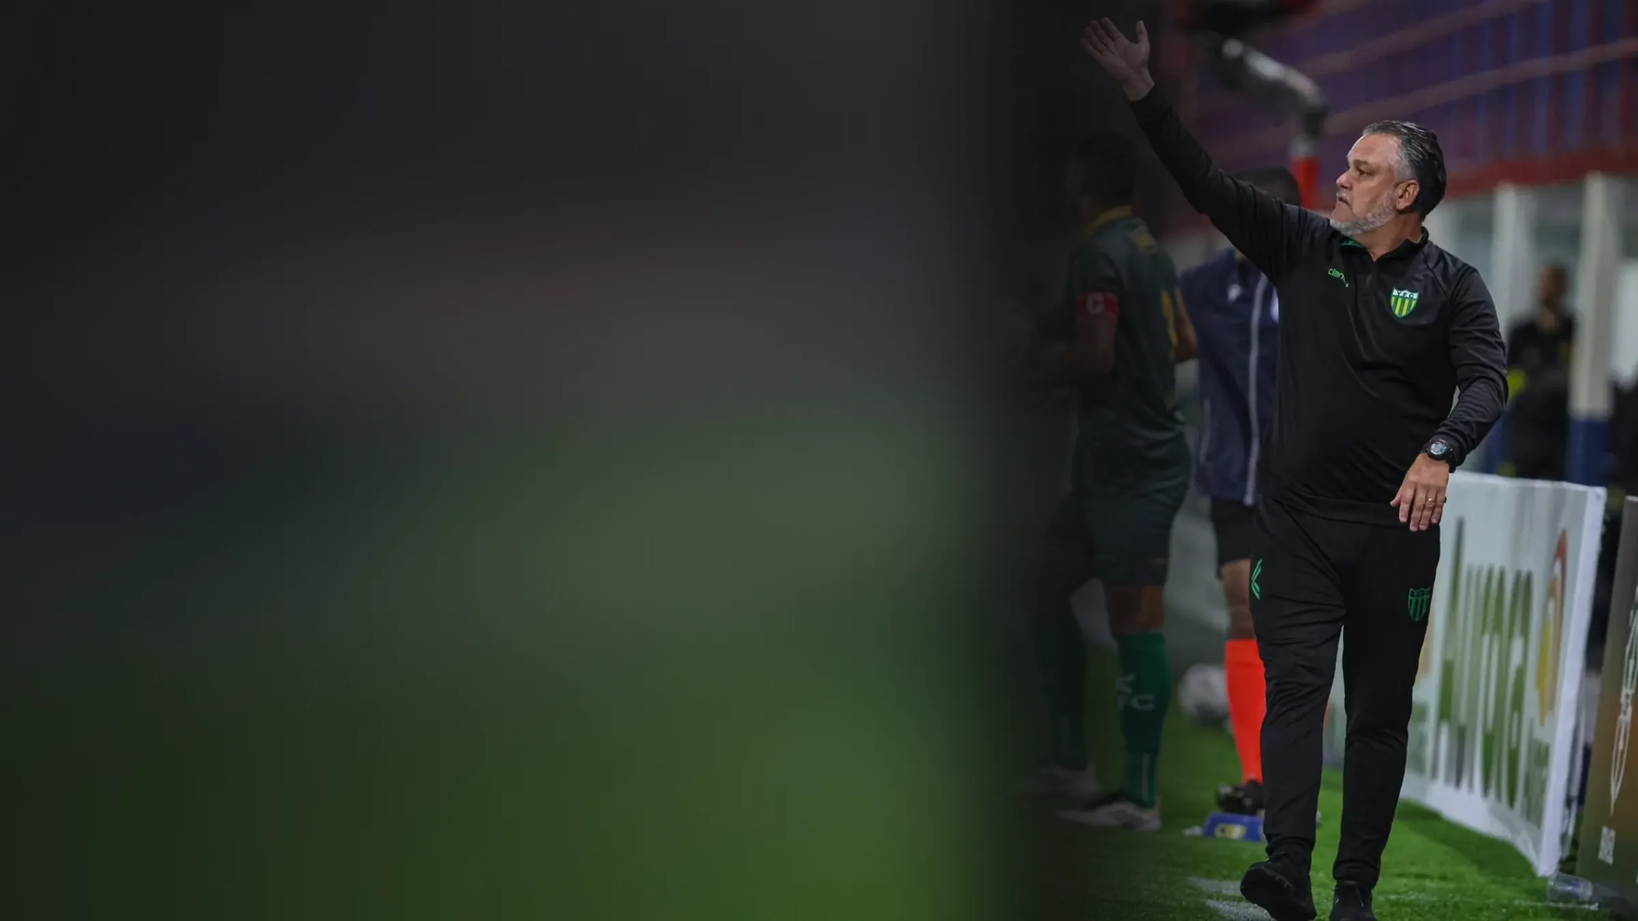
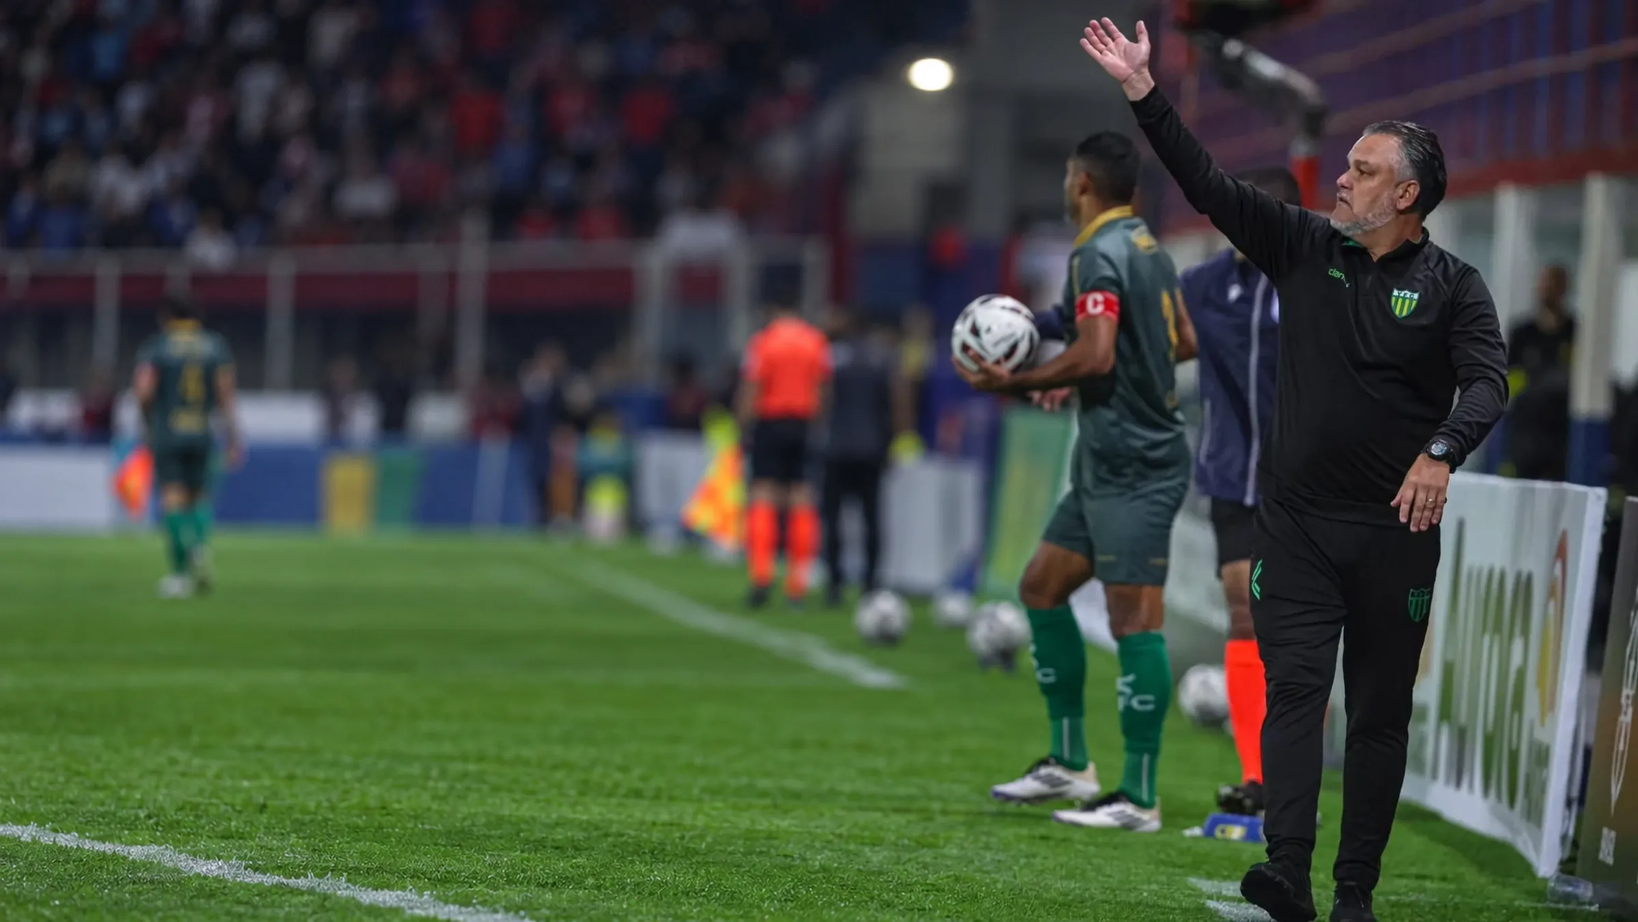
Hero com laterais completadas por IA e sem a seção Modelo de jogo
As fotos do hero e do contato ganharam laterais geradas no ChatGPT, com a
foto original realinhada por cima (tools/merge_outpaint.py) para manter a
pessoa intacta. Remove a seção Modelo de jogo, o link do menu e o JS da
prancheta; o botão secundário do hero passa a levar às fotos.

diff --git a/index.html b/index.html
@@ -4,7 +4,7 @@
 <meta charset="utf-8">
 <meta name="viewport" content="width=device-width, initial-scale=1">
 <title>Gabardo Júnior | Treinador do Agro Esporte Clube</title>
-<meta name="description" content="Site oficial de Gabardo Júnior, treinador do Agro Esporte Clube para a temporada 2027. Conheça sua trajetória, modelo de jogo, experiências e notícias.">
+<meta name="description" content="Site oficial de Gabardo Júnior, treinador do Agro Esporte Clube para a temporada 2027. Conheça sua trajetória, experiências, fotos e notícias.">
 <link rel="canonical" href="https://www.gabardojr.com.br">
 <meta property="og:title" content="Gabardo Júnior | Treinador do Agro Esporte Clube">
 <meta property="og:description" content="Gabardo Júnior é o treinador do Agro Esporte Clube para a temporada 2027.">
@@ -91,10 +91,10 @@ section{position:relative;scroll-margin-top:72px}
 .hero-sticky{position:relative;height:100svh;min-height:640px;max-height:1100px;overflow:hidden}
 .hero-bg{position:absolute;inset:0;opacity:0;transition:opacity 1.4s var(--ease)}
 .hero-bg.is-active{opacity:1}
-.hero-bg img{width:100%;height:100%;object-fit:cover;object-position:right 22%;translate:0 calc(var(--p,0) * 18%)}
+.hero-bg img{width:100%;height:100%;object-fit:cover;object-position:right 8%;translate:0 calc(var(--p,0) * 18%)}
 .hero-bg.is-active img{animation:kenburns 9s linear both}
 @keyframes kenburns{from{scale:1.06}to{scale:1}}
-.hero-shade{position:absolute;inset:0;background:linear-gradient(90deg,rgba(14,14,15,.9) 0%,rgba(14,14,15,.45) 42%,transparent 70%),linear-gradient(0deg,var(--ink) 0%,transparent 35%);}
+.hero-shade{position:absolute;inset:0;background:linear-gradient(90deg,rgba(14,14,15,.82) 0%,rgba(14,14,15,.4) 36%,transparent 58%),linear-gradient(0deg,var(--ink) 0%,transparent 35%);}
 @keyframes cue{to{top:100%}}
 .beam{position:absolute;top:-20%;width:38vw;height:140%;background:linear-gradient(180deg,rgba(255,255,255,.10),transparent 70%);filter:blur(30px);transform-origin:top center;mix-blend-mode:screen;pointer-events:none;opacity:.7}
 .beam.l{left:-6vw;rotate:-18deg;animation:sway 9s ease-in-out infinite alternate}
@@ -204,43 +204,6 @@ section{position:relative;scroll-margin-top:72px}
 .honor:hover b{color:#fff}
 .honor p{margin-top:18px;font-weight:600;font-size:17px;line-height:1.4}
 .honors-ball{position:absolute;right:-180px;top:-180px;width:560px;opacity:.09;pointer-events:none}
-
-/* modelo de jogo */
-.model{padding:clamp(90px,10vw,140px) 0;background:var(--ink)}
-.model-grid{display:grid;grid-template-columns:minmax(0,1.5fr) minmax(0,1fr);gap:clamp(28px,4vw,56px);align-items:stretch}
-.board{position:relative;background:#0f1d14;border:1px solid var(--line-dark);overflow:hidden}
-.board svg{display:block;width:100%;height:auto}
-.board .pitch-lines *{fill:none;stroke:rgba(255,255,255,.22);stroke-width:2}
-.board .stripe{fill:rgba(255,255,255,.025)}
-.board .player{transition:transform 1s var(--ease)}
-.board .player circle{fill:var(--red);stroke:#fff;stroke-width:2.5}
-.board .player.gk circle{fill:var(--gold)}
-.board .player text{fill:#fff;font:800 14px var(--display);text-anchor:middle;dominant-baseline:central}
-.board .layer{opacity:0;transition:opacity .5s}
-.board .layer.on{opacity:1}
-.board .arrow{fill:none;stroke:#fff;stroke-width:3;stroke-linecap:round;stroke-dasharray:var(--len);stroke-dashoffset:var(--len)}
-.board .arrow.dash{stroke-dasharray:8 8}
-.board .layer.on .arrow{animation:draw 1.2s var(--ease) forwards;animation-delay:var(--d,.3s)}
-.board .layer.on .arrow.dash{animation:fadein .6s forwards;animation-delay:var(--d,.3s);opacity:0}
-@keyframes draw{to{stroke-dashoffset:0}}
-@keyframes fadein{to{opacity:1}}
-.board .zone{fill:rgba(200,20,42,.18);stroke:var(--red);stroke-width:2;stroke-dasharray:6 6}
-.board .ring{fill:none;stroke:var(--gold);stroke-width:2.5;stroke-dasharray:4 6;transform-box:fill-box;transform-origin:center}
-.board .layer.on .ring{animation:spin 8s linear infinite}
-@keyframes spin{to{transform:rotate(360deg)}}
-.board .ball{fill:#fff}
-.board .lbl{fill:var(--gold);font:800 22px var(--display);letter-spacing:.06em}
-.board-photo{position:absolute;right:16px;bottom:16px;width:28%;aspect-ratio:1;border:3px solid #fff;box-shadow:0 20px 40px rgba(0,0,0,.5);overflow:hidden}
-.board-photo img{width:100%;height:100%;object-fit:cover;object-position:60% 25%}
-.phases{display:flex;flex-direction:column;border-top:1px solid var(--line-dark)}
-.phase{text-align:left;display:grid;grid-template-columns:44px 1fr;gap:0 14px;padding:20px 0;border-bottom:1px solid var(--line-dark);transition:.3s}
-.phase span{font:800 18px/1.3 var(--display);color:var(--muted)}
-.phase h3{font:800 26px/1.1 var(--display);text-transform:uppercase;color:rgba(255,255,255,.55);transition:color .3s}
-.phase p{grid-column:2;max-height:0;overflow:hidden;opacity:0;font-size:15px;line-height:1.6;color:var(--muted);transition:max-height .5s var(--ease),opacity .4s,margin .4s}
-.phase:hover h3{color:#fff}
-.phase[aria-selected=true] span{color:var(--red)}
-.phase[aria-selected=true] h3{color:#fff}
-.phase[aria-selected=true] p{max-height:140px;opacity:1;margin-top:8px}
 
 /* comissão + referências */
 .people{background:var(--paper);padding:clamp(90px,10vw,140px) 0}
@@ -506,7 +469,6 @@ footer .wordmark{color:#fff}
   .contact::before{background:linear-gradient(0deg,rgba(14,14,15,.98) 30%,rgba(14,14,15,.5) 65%,transparent)}
   .lightbox{padding:70px 12px}
   .lb-prev,.lb-next{top:auto;bottom:12px;translate:none}
-  .board-photo{display:none}
   .agro-art .crest{width:72px;height:72px}
   .facts{grid-template-columns:1fr}
   .facts div:nth-child(odd){padding-right:0}
@@ -524,7 +486,6 @@ footer .wordmark{color:#fff}
     <nav class="nav" aria-label="Navegação principal">
       <a href="#apresentacao" data-i18n="nav.about">Apresentação</a>
       <a href="#experiencia" data-i18n="nav.exp">Experiência</a>
-      <a href="#modelo" data-i18n="nav.model">Modelo de jogo</a>
       <a href="#fotos" data-i18n="nav.photos">Fotos</a>
       <a href="#videos" data-i18n="nav.videos">Vídeos</a>
       <a href="#imprensa" data-i18n="nav.press">Imprensa</a>
@@ -559,7 +520,7 @@ footer .wordmark{color:#fff}
       <p class="hero-role" data-i18n="hero.sub">Treinador de futebol · Licença A CBF/CONMEBOL · 15 anos formando atletas no Grêmio.</p>
       <div class="hero-ctas">
         <a class="btn btn-red" href="#apresentacao"><span data-i18n="hero.cta1">Conheça a trajetória</span><svg viewBox="0 0 24 24" fill="none" stroke="currentColor" stroke-width="2"><path d="M5 12h13M13 6l6 6-6 6"/></svg></a>
-        <a class="btn btn-ghost" href="#modelo" data-i18n="hero.cta2">Modelo de jogo</a>
+        <a class="btn btn-ghost" href="#fotos" data-i18n="hero.cta2">Ver fotos</a>
       </div>
     </div>
     <div class="hero-dots" role="tablist" aria-label="Selecionar destaque">
@@ -688,73 +649,6 @@ footer .wordmark{color:#fff}
       <article class="honor rv" style="--rd:.06s"><b>06</b><p data-i18n="h6">Vice-campeão da Copa do Brasil Sub-17</p></article>
       <article class="honor rv" style="--rd:.12s"><b>07</b><p data-i18n="h7">Nove Campeonatos Estaduais Gaúchos de base</p></article>
       <article class="honor rv" style="--rd:.18s"><b>08</b><p data-i18n="h8">24 títulos nas categorias de base</p></article>
-    </div>
-  </div>
-</section>
-
-<!-- MODELO DE JOGO -->
-<section class="model" id="modelo">
-  <div class="stripes"></div><div class="glow" style="right:-25vw;top:-10%"></div>
-  <div class="wrap">
-    <div class="sec-head">
-      <div><span class="kicker rv" data-i18n="mod.k">Identidade de trabalho</span><h2 class="h2 rv" data-i18n="nav.model">Modelo de jogo</h2></div>
-      <p class="lead rv" data-i18n="mod.p">Uma equipe sólida em todos os momentos, com clareza de ideias, metodologia diária, intensidade e construção de resultados. O modelo respeita a cultura do clube e integra time, comissão técnica e atletas.</p>
-    </div>
-    <div class="model-grid">
-      <div class="board rv" aria-label="Prancheta tática ilustrando o princípio selecionado">
-        <svg viewBox="0 0 1050 680" role="img" aria-labelledby="board-title">
-          <title id="board-title">Prancheta tática</title>
-          <defs>
-            <marker id="ah" viewBox="0 0 10 10" refX="7" refY="5" markerWidth="5" markerHeight="5" orient="auto-start-reverse"><path d="M0 0L10 5L0 10z" fill="#fff"/></marker>
-            <marker id="ahg" viewBox="0 0 10 10" refX="7" refY="5" markerWidth="5" markerHeight="5" orient="auto-start-reverse"><path d="M0 0L10 5L0 10z" fill="#c9a54a"/></marker>
-          </defs>
-          <g id="stripes"></g>
-          <g class="pitch-lines">
-            <rect x="25" y="25" width="1000" height="630"/><line x1="525" y1="25" x2="525" y2="655"/><circle cx="525" cy="340" r="88"/>
-            <rect x="25" y="170" width="160" height="340"/><rect x="25" y="255" width="55" height="170"/>
-            <rect x="865" y="170" width="160" height="340"/><rect x="970" y="255" width="55" height="170"/>
-            <path d="M185 282a88 88 0 0 1 0 116M865 282a88 88 0 0 0 0 116"/>
-          </g>
-          <!-- camadas por princípio -->
-          <g class="layer" data-layer="0">
-            <path class="arrow" style="--d:.3s" marker-end="url(#ah)" d="M210 270 Q300 230 390 330"/>
-            <path class="arrow" style="--d:.8s" marker-end="url(#ah)" d="M410 340 Q520 300 610 220"/>
-            <path class="arrow" style="--d:1.3s" marker-end="url(#ah)" d="M640 210 Q760 180 820 300"/>
-            <path class="arrow dash" style="--d:1.4s" marker-end="url(#ah)" d="M700 560 Q800 520 860 420"/>
-            <path class="arrow dash" style="--d:1.6s" marker-end="url(#ah)" d="M740 330 L900 330"/>
-          </g>
-          <g class="layer" data-layer="1">
-            <rect class="zone" x="300" y="150" width="270" height="380" rx="6"/>
-            <path class="arrow dash" style="--d:.4s" marker-end="url(#ahg)" stroke="#c9a54a" d="M610 340 L520 340"/>
-            <text class="lbl" x="310" y="140">BLOCO COMPACTO</text>
-          </g>
-          <g class="layer" data-layer="2">
-            <circle class="ring" cx="600" cy="300" r="90"/>
-            <circle class="ball" cx="600" cy="300" r="9"/>
-            <path class="arrow" style="--d:.3s" marker-end="url(#ah)" d="M520 230 L575 280"/>
-            <path class="arrow" style="--d:.4s" marker-end="url(#ah)" d="M690 220 L625 280"/>
-            <path class="arrow" style="--d:.5s" marker-end="url(#ah)" d="M520 390 L578 322"/>
-            <path class="arrow" style="--d:1.2s" marker-end="url(#ah)" d="M640 300 Q780 260 900 330"/>
-            <text class="lbl" x="545" y="190">5–7 s</text>
-          </g>
-          <g class="layer" data-layer="3">
-            <circle class="ball" cx="1012" cy="38" r="9"/>
-            <path class="arrow" style="--d:.3s;stroke:#c9a54a" marker-end="url(#ahg)" d="M1000 45 Q880 160 935 320"/>
-            <path class="arrow dash" style="--d:.9s" marker-end="url(#ah)" d="M820 420 L925 350"/>
-            <path class="arrow dash" style="--d:1s" marker-end="url(#ah)" d="M800 250 L905 300"/>
-          </g>
-          <g class="layer" data-layer="4" id="links"></g>
-          <g id="players"></g>
-        </svg>
-        <div class="board-photo"><img src="assets/novas/gabardo-modelo-jogo.webp" alt="Gabardo Júnior orientando sua equipe durante uma partida" loading="lazy"></div>
-      </div>
-      <div class="phases rv" role="tablist" aria-label="Princípios do modelo de jogo">
-        <button class="phase" role="tab" aria-selected="true"><span>01</span><h3 data-i18n="m1.t">Organização ofensiva</h3><p data-i18n="m1.p">Circulação e posse para ultrapassar linhas, chegar rapidamente ao campo de ataque e criar oportunidades.</p></button>
-        <button class="phase" role="tab" aria-selected="false"><span>02</span><h3 data-i18n="m2.t">Organização defensiva</h3><p data-i18n="m2.p">Marcação zonal e mista, compactação e controle dos espaços para neutralizar o adversário.</p></button>
-        <button class="phase" role="tab" aria-selected="false"><span>03</span><h3 data-i18n="m3.t">Transições</h3><p data-i18n="m3.p">Recuperação da posse em 5 a 7 segundos; contra-ataques verticais e agressivos ou reorganização rápida.</p></button>
-        <button class="phase" role="tab" aria-selected="false"><span>04</span><h3 data-i18n="m4.t">Bola parada</h3><p data-i18n="m4.p">Variações ensaiadas, marcação individual e por zona e ações ofensivas para gerar oportunidades.</p></button>
-        <button class="phase" role="tab" aria-selected="false"><span>05</span><h3 data-i18n="m5.t">Gestão</h3><p data-i18n="m5.p">Relações humanas, avaliações, controle do processo e soluções alinhadas à busca constante por resultados.</p></button>
-      </div>
     </div>
   </div>
 </section>
@@ -1019,52 +913,6 @@ footer .wordmark{color:#fff}
   addEventListener('load', sizePin);
   sizePin();
 
-  /* prancheta tática */
-  const NS = 'http://www.w3.org/2000/svg';
-  const stripes = $('#stripes');
-  for (let i = 0; i < 10; i += 2) {
-    const r = document.createElementNS(NS, 'rect');
-    Object.entries({ class: 'stripe', x: 25 + i * 100, y: 25, width: 100, height: 630 }).forEach(([k, v]) => r.setAttribute(k, v));
-    stripes.append(r);
-  }
-  // posições por princípio: [x,y] para 11 jogadores (GK, 4 DEF, 3 MEI, 3 ATA)
-  const F = [
-    [[70,340],[260,110],[210,270],[210,410],[260,570],[400,330],[610,210],[600,470],[840,140],[780,330],[720,560]],
-    [[70,340],[330,170],[320,280],[320,400],[330,510],[450,230],[440,340],[450,450],[560,200],[600,340],[560,480]],
-    [[70,340],[300,140],[280,280],[280,420],[300,560],[520,230],[520,390],[690,220],[800,140],[640,300],[780,520]],
-    [[70,340],[400,130],[330,300],[330,420],[400,560],[640,500],[800,250],[820,420],[930,250],[925,350],[900,450]],
-    [[70,340],[260,140],[230,280],[230,420],[260,560],[430,220],[400,340],[430,460],[680,160],[720,340],[680,520]],
-  ];
-  const playersG = $('#players'), players = F[0].map((_, i) => {
-    const g = document.createElementNS(NS, 'g'); g.setAttribute('class', 'player' + (i ? '' : ' gk'));
-    const c = document.createElementNS(NS, 'circle'); c.setAttribute('r', 19);
-    const t = document.createElementNS(NS, 'text'); t.textContent = [1,2,3,4,6,5,8,10,7,9,11][i];
-    g.append(c, t); playersG.append(g); return g;
-  });
-  // rede de conexões (Gestão)
-  const links = $('#links'), P = F[4];
-  [[0,2],[0,3],[1,2],[2,3],[3,4],[1,5],[2,6],[3,6],[4,7],[5,6],[6,7],[5,8],[6,9],[7,10],[8,9],[9,10],[1,8],[4,10]].forEach(([a,b], k) => {
-    const l = document.createElementNS(NS, 'path');
-    l.setAttribute('class', 'arrow'); l.setAttribute('d', `M${P[a]} L${P[b]}`);
-    l.style.cssText = `--d:${(.2 + k * .05).toFixed(2)}s;stroke:#c9a54a;stroke-width:2;opacity:.8`;
-    links.append(l);
-  });
-  $$('.board .arrow').forEach(p => p.style.setProperty('--len', Math.ceil(p.getTotalLength())));
-  const layers = $$('.board .layer'), tabs = $$('.phase');
-  let phaseTimer, phase = 0, userPicked = false;
-  const setPhase = i => {
-    phase = i;
-    tabs.forEach((t, k) => t.setAttribute('aria-selected', k === i));
-    layers.forEach(l => l.classList.toggle('on', +l.dataset.layer === i));
-    players.forEach((g, k) => g.style.transform = `translate(${F[i][k][0]}px,${F[i][k][1]}px)`);
-  };
-  tabs.forEach((t, i) => t.addEventListener('click', () => { userPicked = true; clearInterval(phaseTimer); setPhase(i); }));
-  players.forEach((g, k) => g.style.transform = `translate(${F[0][k][0]}px,${F[0][k][1]}px)`);
-  new IntersectionObserver(([e], o) => {
-    if (!e.isIntersecting) return; o.disconnect(); setPhase(0);
-    if (!reduce) phaseTimer = setInterval(() => { if (!userPicked) setPhase((phase + 1) % 5); }, 6000);
-  }, { threshold: .4 }).observe($('.board'));
-
   /* trilho de atletas */
   const rail = $('#rail');
   $$('[data-rail]').forEach(b => b.addEventListener('click', () => rail.scrollBy({ left: +b.dataset.rail * rail.clientWidth * .8, behavior: 'smooth' })));
@@ -1109,7 +957,7 @@ footer .wordmark{color:#fff}
   const T = {
     en: {
       'nav.about':'About','nav.exp':'Experience','nav.model':'Game model','nav.photos':'Photos','nav.videos':'Videos','nav.press':'Press','nav.contact':'Contact',
-      'hero.season':'2027 Season','hero.intro1':'Football coach','hero.scroll':'Scroll','hero.sub':'Football coach · CBF/CONMEBOL A Licence · 15 years developing players at Grêmio.','hero.role':'Football<br><span>coach</span>','hero.t1':'Football','hero.t2':'coach','hero.cta1':'Discover his career','hero.cta2':'Game model','hero.s1':'On the touchline','hero.s2':'Leadership','hero.s3':'Agro 2027',
+      'hero.season':'2027 Season','hero.intro1':'Football coach','hero.scroll':'Scroll','hero.sub':'Football coach · CBF/CONMEBOL A Licence · 15 years developing players at Grêmio.','hero.role':'Football<br><span>coach</span>','hero.t1':'Football','hero.t2':'coach','hero.cta1':'Discover his career','hero.cta2':'See photos','hero.s1':'On the touchline','hero.s2':'Leadership','hero.s3':'Agro 2027',
       'st.years':'years','st.1':'Developing players at Grêmio','st.2':'CBF / CONMEBOL licence','st.3':'Head coach since','st.4':'Youth-level titles',
       'about.cap':'Coaching from the touchline','about.badge':'Licence','about.k':'Professional coach',
       'about.p1':'Luiz Gabardo Júnior is a professional football coach with a degree in Physical Education and a CBF/CONMEBOL A Licence. Born in Porto Alegre, he has built a career combining player development, team leadership and professional football experience.',
@@ -1122,8 +970,6 @@ footer .wordmark{color:#fff}
       'c.agro':'Goiás State Championship and Brazilian Série D','c.serieC':'Brazilian Championship — Série C','c.serieD':'Brazilian Championship — Série D','c.pro':'Professional football','c.ba':'Bahia State Championship','c.rs':'Rio Grande do Sul State Championship','c.gremio':'Youth academy — U-12 to U-20',
       'hon.k':'Career results','hon.t':'Achievements','hon.p':'Results in professional football and a long list of titles in player development.',
       'h1':'Promotion to the Goiás State Championship Série A','h2':'Best coach of the Mato Grosso State Championship','h3':'Série D play-off qualification in 2021 and 2023','h4':'2024 Bahia State Championship semi-finalist','h5':'Brazilian U-15 champion with Grêmio','h6':'Runner-up in the U-17 Copa do Brasil','h7':'Nine Rio Grande do Sul youth state titles','h8':'24 youth-level titles',
-      'mod.k':'Working identity','mod.p':'A solid team in every phase of play, with clear ideas, daily methodology, intensity and the building of results. The model respects the club\'s culture and brings together team, staff and players.',
-      'm1.t':'Attacking organisation','m1.p':'Circulation and possession to break lines, reach the final third quickly and create chances.','m2.t':'Defensive organisation','m2.p':'Zonal and mixed marking, compactness and control of space to neutralise the opponent.','m3.t':'Transitions','m3.p':'Winning the ball back within 5 to 7 seconds; vertical, aggressive counter-attacks or quick reorganisation.','m4.t':'Set pieces','m4.p':'Rehearsed variations, man and zonal marking and attacking routines to create chances.','m5.t':'Management','m5.p':'Human relationships, assessments, process control and solutions aligned with the constant pursuit of results.',
       'ppl.role':'Assistant coach','ppl.k':'Integrated work','ppl.t':'Staff &amp; references','ppl.p':'A multidisciplinary structure organised to support planning, performance and decision-making — and professionals who vouch for Gabardo Júnior\'s career.','r1':'Head of Football, Brazil national team','r2':'Supervisor, Brazil national team','r3':'Football executive',
       'atl.k':'Developing talent','atl.t':'Players developed','atl.p':'Players whose development Gabardo Júnior took part in during his years in youth football.','pos.fw':'Forward','pos.mf':'Midfielder',
       'gal.k':'Career moments','gal.p':'Pitch, behind the scenes and memorable moments. Click to enlarge.',
@@ -1134,7 +980,7 @@ footer .wordmark{color:#fff}
     },
     es: {
       'nav.about':'Presentación','nav.exp':'Experiencia','nav.model':'Modelo de juego','nav.photos':'Fotos','nav.videos':'Vídeos','nav.press':'Prensa','nav.contact':'Contacto',
-      'hero.season':'Temporada 2027','hero.intro1':'Entrenador de fútbol','hero.scroll':'Desliza','hero.sub':'Entrenador de fútbol · Licencia A CBF/CONMEBOL · 15 años formando jugadores en Grêmio.','hero.role':'Entrenador<br><span>de fútbol</span>','hero.t1':'Entrenador','hero.t2':'de fútbol','hero.cta1':'Conoce su trayectoria','hero.cta2':'Modelo de juego','hero.s1':'Junto al campo','hero.s2':'Liderazgo','hero.s3':'Agro 2027',
+      'hero.season':'Temporada 2027','hero.intro1':'Entrenador de fútbol','hero.scroll':'Desliza','hero.sub':'Entrenador de fútbol · Licencia A CBF/CONMEBOL · 15 años formando jugadores en Grêmio.','hero.role':'Entrenador<br><span>de fútbol</span>','hero.t1':'Entrenador','hero.t2':'de fútbol','hero.cta1':'Conoce su trayectoria','hero.cta2':'Ver fotos','hero.s1':'Junto al campo','hero.s2':'Liderazgo','hero.s3':'Agro 2027',
       'st.years':'años','st.1':'Formando jugadores en Grêmio','st.2':'Licencia CBF / CONMEBOL','st.3':'Entrenador desde','st.4':'Títulos en categorías formativas',
       'about.cap':'Orientación junto al campo','about.badge':'Licencia','about.k':'Entrenador profesional',
       'about.p1':'Luiz Gabardo Júnior es entrenador profesional de fútbol, licenciado en Educación Física y titular de la Licencia A CBF/CONMEBOL. Nacido en Porto Alegre, ha construido su trayectoria uniendo formación de jugadores, liderazgo de equipos y experiencia en el fútbol profesional.',
@@ -1147,8 +993,6 @@ footer .wordmark{color:#fff}
       'c.agro':'Campeonato Goiano y Campeonato Brasileño — Serie D','c.serieC':'Campeonato Brasileño — Serie C','c.serieD':'Campeonato Brasileño — Serie D','c.pro':'Fútbol profesional','c.ba':'Campeonato Bahiano','c.rs':'Campeonato Gaúcho','c.gremio':'Categorías formativas — Sub-12 a Sub-20',
       'hon.k':'Resultados de carrera','hon.t':'Logros','hon.p':'Resultados en el fútbol profesional y una larga lista de títulos en la formación de jugadores.',
       'h1':'Ascenso a la Serie A del Campeonato Goiano','h2':'Mejor entrenador del Campeonato Mato-Grossense','h3':'Clasificación a los playoffs de la Serie D en 2021 y 2023','h4':'Semifinalista del Campeonato Bahiano 2024','h5':'Campeón Brasileño Sub-15 con Grêmio','h6':'Subcampeón de la Copa de Brasil Sub-17','h7':'Nueve Campeonatos Gaúchos formativos','h8':'24 títulos en categorías formativas',
-      'mod.k':'Identidad de trabajo','mod.p':'Un equipo sólido en todos los momentos, con claridad de ideas, metodología diaria, intensidad y construcción de resultados. El modelo respeta la cultura del club e integra equipo, cuerpo técnico y jugadores.',
-      'm1.t':'Organización ofensiva','m1.p':'Circulación y posesión para superar líneas, llegar rápido al campo rival y generar ocasiones.','m2.t':'Organización defensiva','m2.p':'Marcaje zonal y mixto, compactación y control de los espacios para neutralizar al rival.','m3.t':'Transiciones','m3.p':'Recuperación de la posesión en 5 a 7 segundos; contraataques verticales y agresivos o reorganización rápida.','m4.t':'Balón parado','m4.p':'Variantes ensayadas, marcaje individual y zonal y acciones ofensivas para generar ocasiones.','m5.t':'Gestión','m5.p':'Relaciones humanas, evaluaciones, control del proceso y soluciones alineadas con la búsqueda constante de resultados.',
       'ppl.role':'Asistente técnico','ppl.k':'Trabajo integrado','ppl.t':'Equipo y referencias','ppl.p':'Estructura multidisciplinaria organizada para apoyar la planificación, el rendimiento y la toma de decisiones — y profesionales que avalan la trayectoria de Gabardo Júnior.','r1':'Director de Fútbol de la Selección Brasileña','r2':'Supervisor de la Selección Brasileña','r3':'Ejecutivo de fútbol',
       'atl.k':'Formación de talentos','atl.t':'Jugadores formados','atl.p':'Jugadores en cuya formación participó Gabardo Júnior durante su trayectoria en las categorías formativas.','pos.fw':'Delantero','pos.mf':'Centrocampista',
       'gal.k':'Momentos de carrera','gal.p':'Campo, bastidores y momentos destacados. Haz clic para ampliar.',
